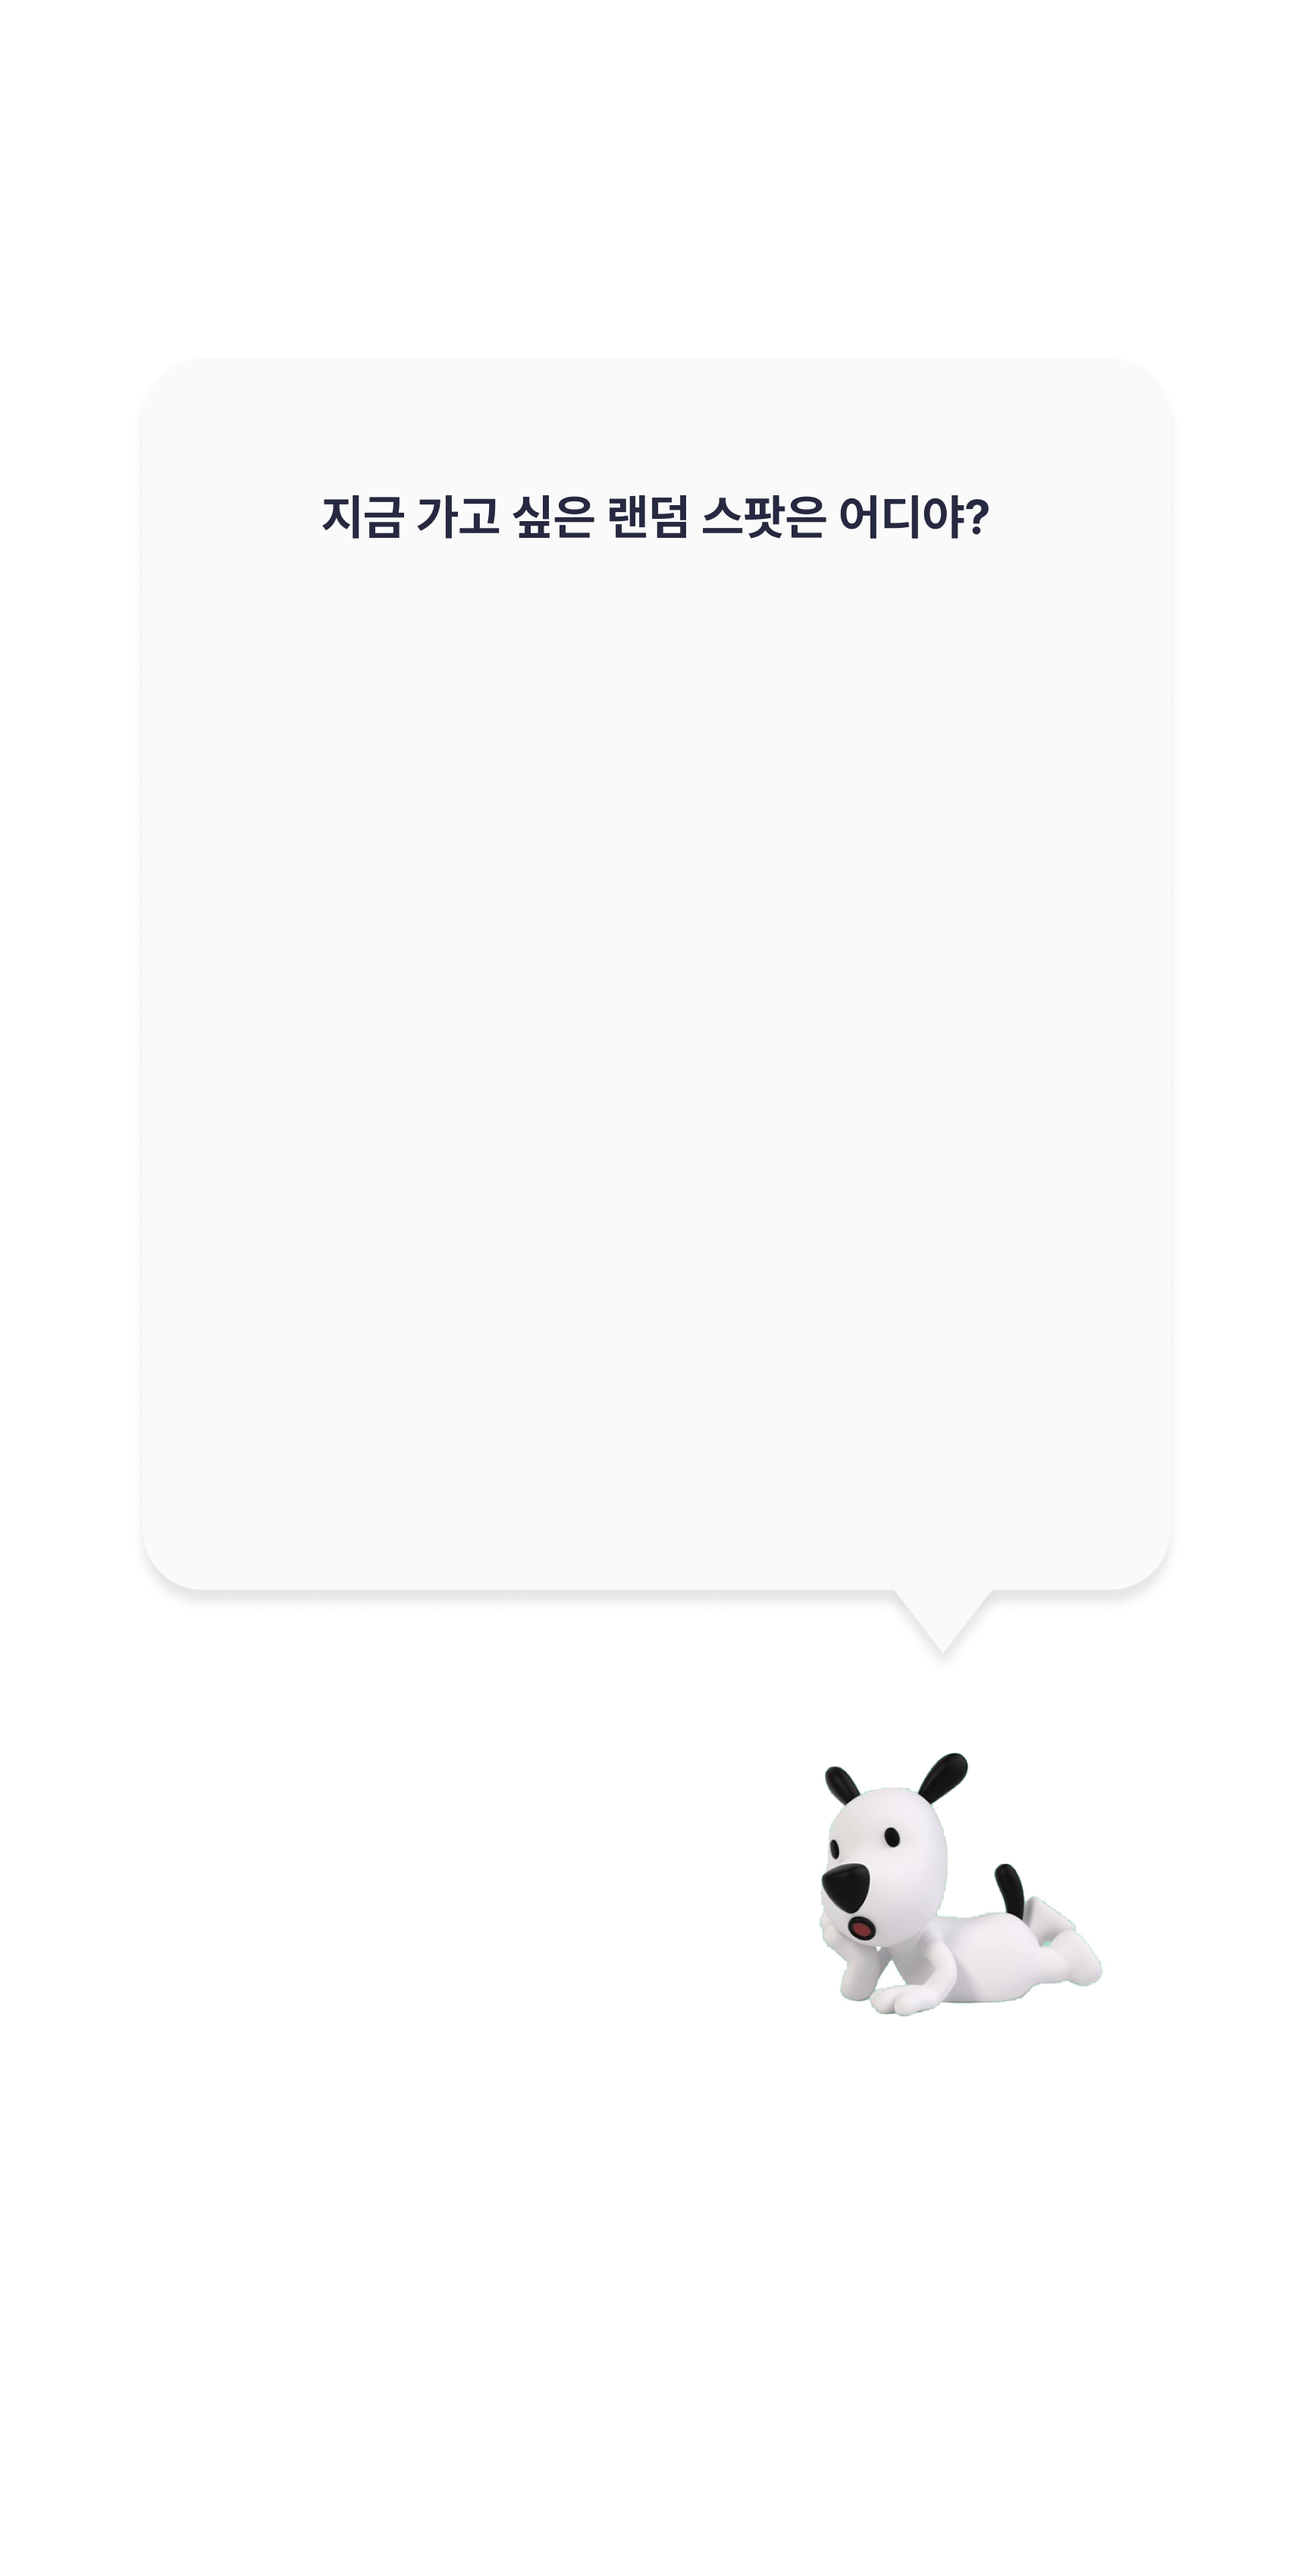
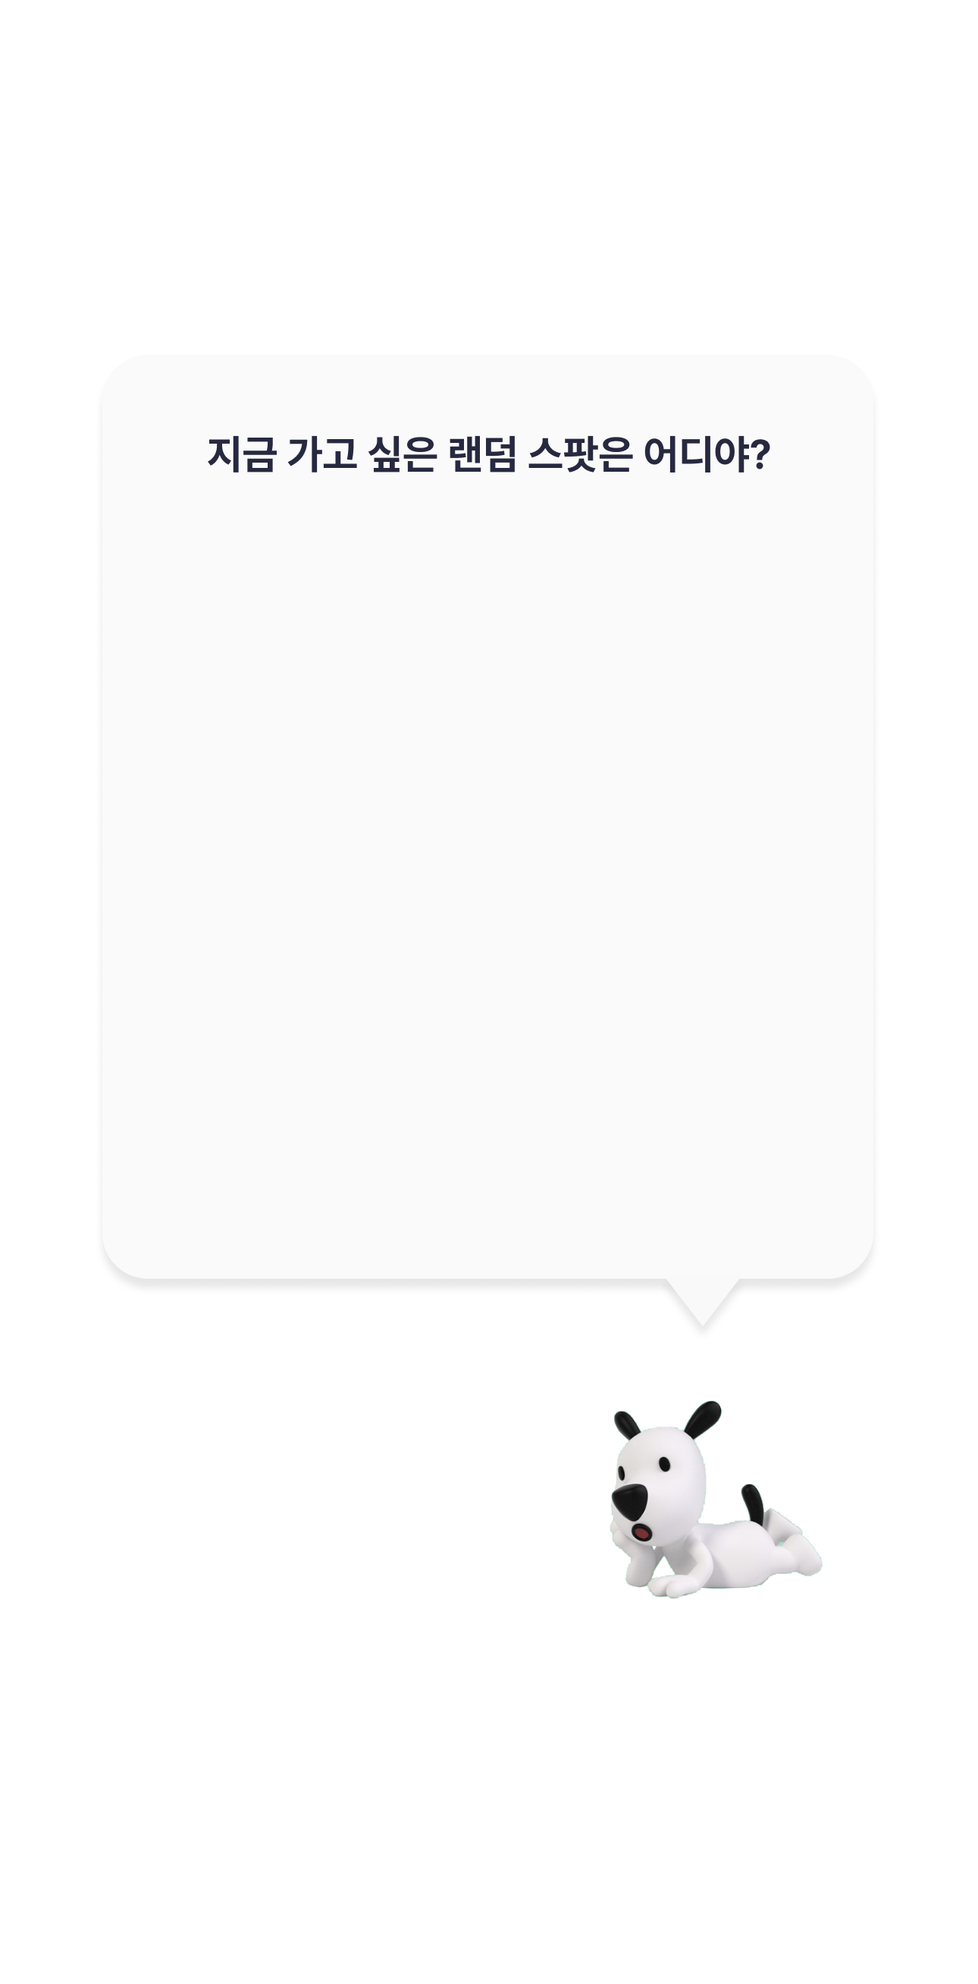
feat: 랜덤 스팟 선택 페이지 수정

Changed region(s): [[0.2171, 0.1858, 0.8062, 0.2477], [0.6202, 0.6812, 0.8372, 0.805]]

diff --git a/src/pages/RandomEventSpot/RandomsSpotPush.jsx b/src/pages/RandomEventSpot/RandomsSpotPush.jsx
@@ -30,6 +30,7 @@ function RandomSpotPush() {
     };
 
     const containerStyle = {
+      marginTop: '1vh',
       display: 'flex',
       flexDirection: 'column',
       justifyContent: 'flex-start',
@@ -38,14 +39,15 @@ function RandomSpotPush() {
     };
   
     const buttonContainerStyle = {
+      marginTop: '1.5vh',
       display: 'grid',
       gridTemplateColumns: 'repeat(2, 1fr)',
       gridGap: '10px',
     };
   
     const buttonStyle = {
-      width: '36vw',
-      height: '36vw'
+      width: '35vw',
+      height: '35vw'
     };
 
     const handleShoppingBtn = () => {
